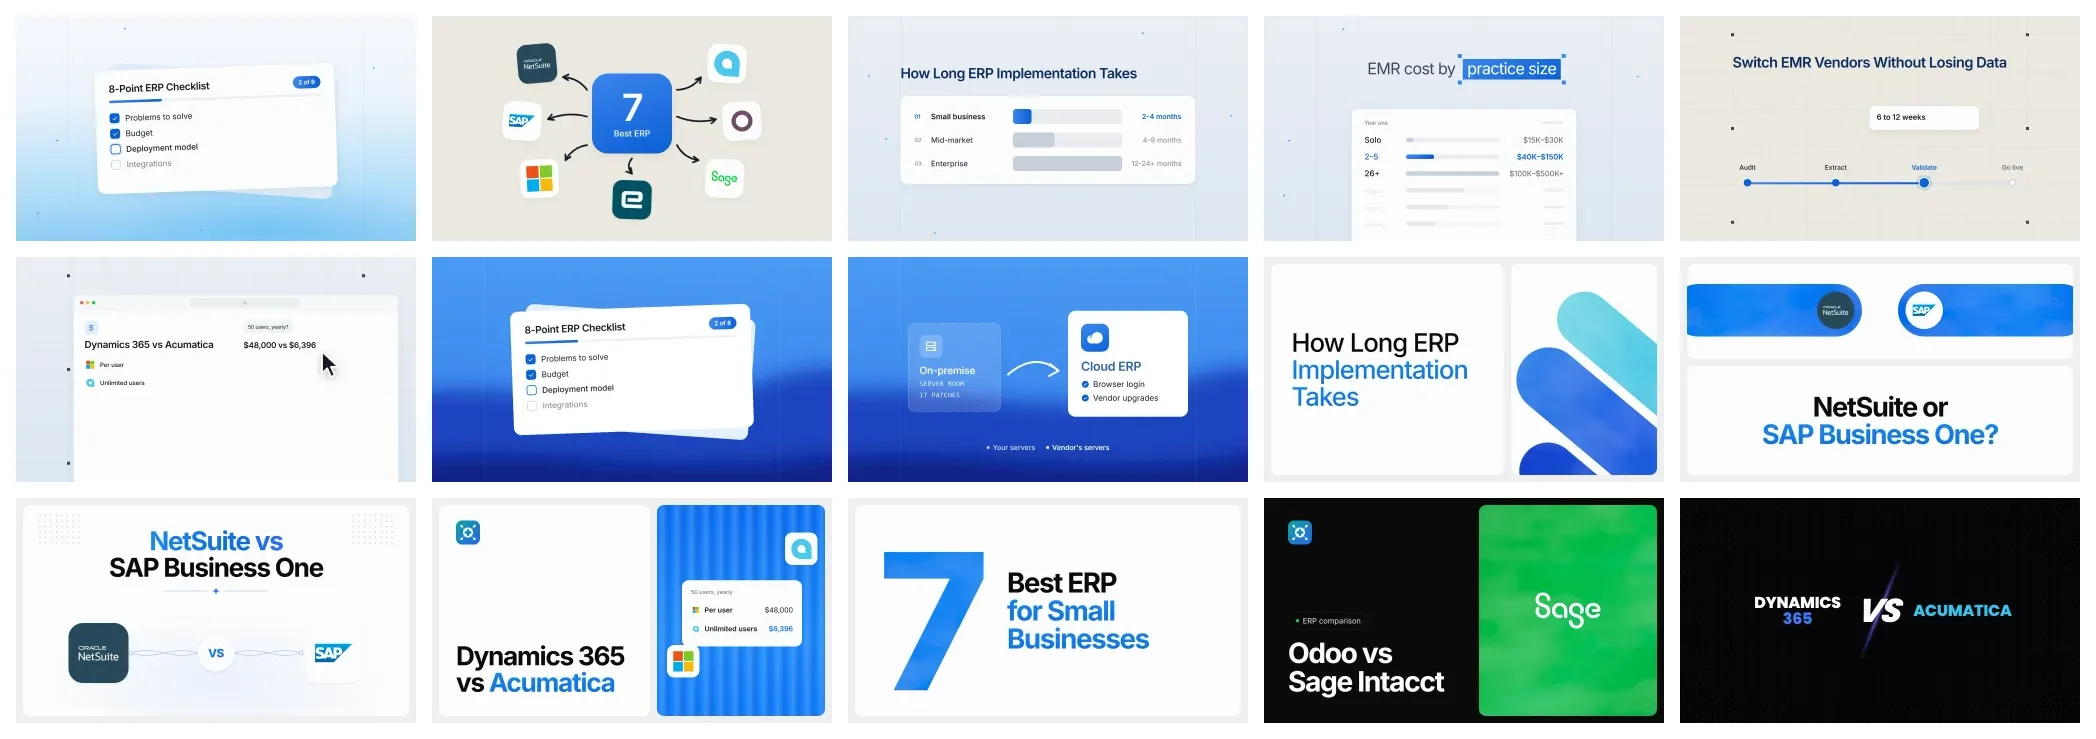
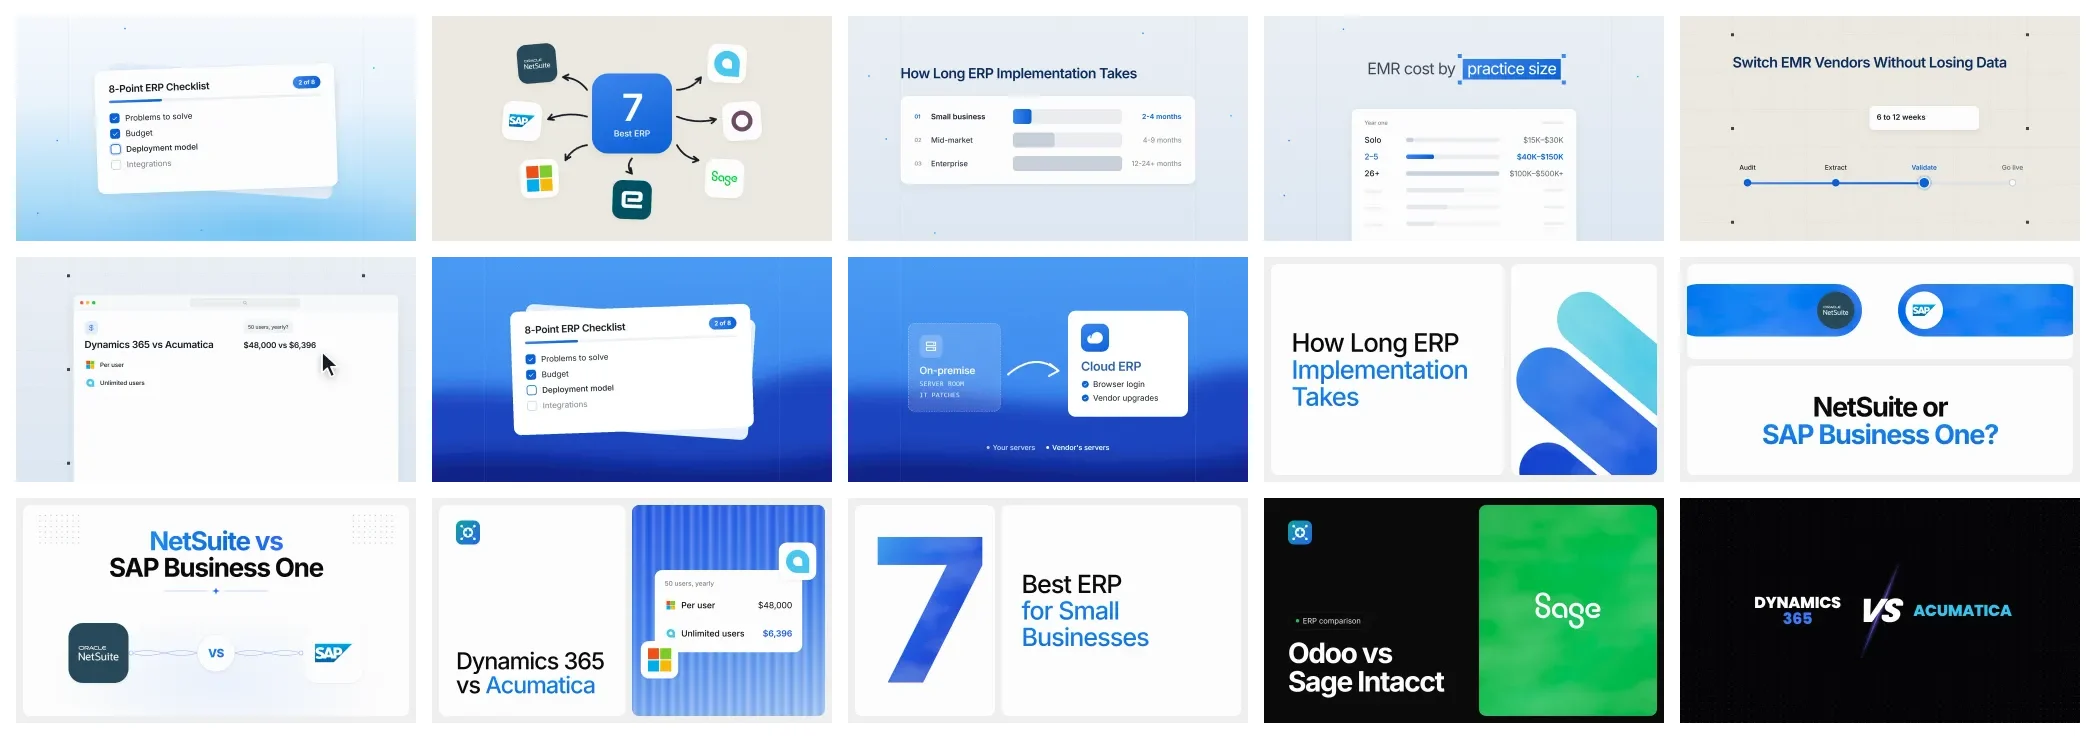
Refine pills, split and number after Chatbase: two panels, calm medium-weight titles, wide fluted panel

Changed region(s): [[0.2171, 0.6847, 0.5582, 0.9959]]

diff --git a/skills/blog-featured-images/references/design-language.md b/skills/blog-featured-images/references/design-language.md
@@ -87,11 +87,11 @@ A second family next to the card layouts: a **giant, tight, bold headline** carr
 | `versus/pills` | two blue pills facing each other with the two logos at the tips; the question below ("A or {{B?}}") | X vs Y |
 | `versus/connect` | centred headline with a blue phrase and a sparkle divider; two big logo tiles linked by thin crossing strands to a white **VS** circle; small dot patches top-left and top-right | X vs Y |
 | `versus/slash` | black field with a fine dot grid; the two names in heavy caps (a coloured part each); a big italic **VS** with a glowing diagonal streak | X vs Y (counts as vibrant) |
-| `split` | site mark + headline on the left; a **fluted-glass** blue panel on the right with a small white card (2–3 rows with logos) and up to two logo tiles | X vs Y with prices, product pages |
+| `split` | title panel (site mark, calm **medium-weight** headline bottom-left) next to a wide **fluted-glass** blue panel (uneven soft vertical stripes, deep top-left to light bottom-right) holding a big white card (2–3 rows with logos); up to two logo tiles overlap the card's corners, never its content | X vs Y with prices, product pages |
 | `dark` | black field, site mark, a tag pill, white headline; a panel in the **product's own brand colour** with its white logo | comparisons and reviews of one vivid brand (counts as vibrant) |
-| `number` | a giant blue number beside the headline | "7 best", "10 tools" lists |
+| `number` | **two panels**: the giant number fills its own panel in a multi-tone watercolour (cyan → royal → indigo); the title sits in the other panel, medium weight, key words in blue | "7 best", "10 tools" lists |
 
-- **Colour: the subtle Chatbase blue.** Shapes are a near-solid vivid blue (`#0A6EF5 → #1D8BFF`) with only a faint tonal drift and fine grain. Cloudy, high-contrast watercolour was rejected ("too much and too bad"). Headline key phrases use `{{ }}` and render in the same blue.
+- **Colour: the subtle Chatbase blue.** Shapes are a near-solid vivid blue (`#0A6EF5 → #1D8BFF`) with only a faint tonal drift and fine grain. Headlines are **medium weight (500)** in `pills`, `split` and `number` (Chatbase's calm type); the versus layouts keep their bold headlines. Cloudy, high-contrast watercolour was rejected ("too much and too bad"). Headline key phrases use `{{ }}` and render in the same blue.
 - **White frame rule:** a white design always sits in a **white rounded panel inset 28px on a light-grey `#F2F2F3` frame**, so it reads as its own block on a white blog page. The renderer does this for `pills`, `split`, `number`, `versus/pills` and `versus/connect`.
 - **Black fields** (`dark`, `versus/slash`) count as vibrant: at most 1 in 3 images per category, never neighbours, shared with the deep-dunes blue.
 - **Brand colour:** when a product's logo colour is vivid and modern (e.g. Sage green), `dark` can use it for its panel (`"color": "#00C247"`). Otherwise the panel is the subtle blue.

diff --git a/skills/blog-featured-images/references/lessons.md b/skills/blog-featured-images/references/lessons.md
@@ -42,6 +42,7 @@ Read this before every batch. Each lesson cost at least one extra round with the
 - **Grain on every background** (heavy on blue, fine on light). The user loves the noise.
 - **Minimal wins.** A plain window with whitespace was "really good minimal"; the same window with bars filling the space was "ugly". 30 words was still "text heavy"; 15 is the cap.
 - **Prefer a visual over a text card.** A plain text card (the old stack/split) got "I DONT LIKE IT"; icons + arrow + 2 checked items won.
+- **Calm type in headline layouts:** Chatbase titles are medium weight; heavy bold looked amateur in `pills`, `split`, `number`. Titles and shapes sit in separate panels (the grey gutter is the divider the user loved).
 - **Headline layouts (Chatbase) were loved;** the Gumloop-style tile/band/orbit layouts were all rejected, and so was a royal-blue field with diamonds ("doesn't look premium"). Chatbase's blue is subtle and near-solid: cloudy watercolour looked "too much and too bad". White designs need the grey frame.
 - **Show options side by side, once.** For any "I don't like it" or a placement/style change, render 2–3 options together. One-at-a-time changes took 3 rounds where one sheet took 1.
 - When the user asks "does it reflect the article?", answer with a table mapping every element on the image to the sentence it came from.

diff --git a/skills/blog-featured-images/SKILL.md b/skills/blog-featured-images/SKILL.md
@@ -65,9 +65,9 @@ Read these before your first image in a session:
 | `versus/pills` | two facing blue pills with the logos at the tips, the question below | X vs Y |
 | `versus/connect` | centred headline, two logo tiles linked to a VS circle, dot patches | X vs Y |
 | `versus/slash` | black, dot grid, heavy-caps names, italic VS with a glowing streak | X vs Y (vibrant) |
-| `split` | site mark + headline, fluted-glass blue panel with a price card and logo tiles | X vs Y with prices |
+| `split` | title panel + wide fluted-glass panel with a big price card, logo tiles on its corners | X vs Y with prices |
 | `dark` | black, tag pill, white headline, brand-colour panel with the white logo | one vivid brand (vibrant) |
-| `number` | giant blue number beside the headline | "7 best" lists |
+| `number` | giant multi-tone number in its own panel + title panel | "7 best" lists |
 
 The same article type can use several layouts (cost: focus, stat, prompt, window, ranked). Use that range to avoid repeats. When a category's least-used tier already has one use each, add a new variant before briefing Makers.
 
